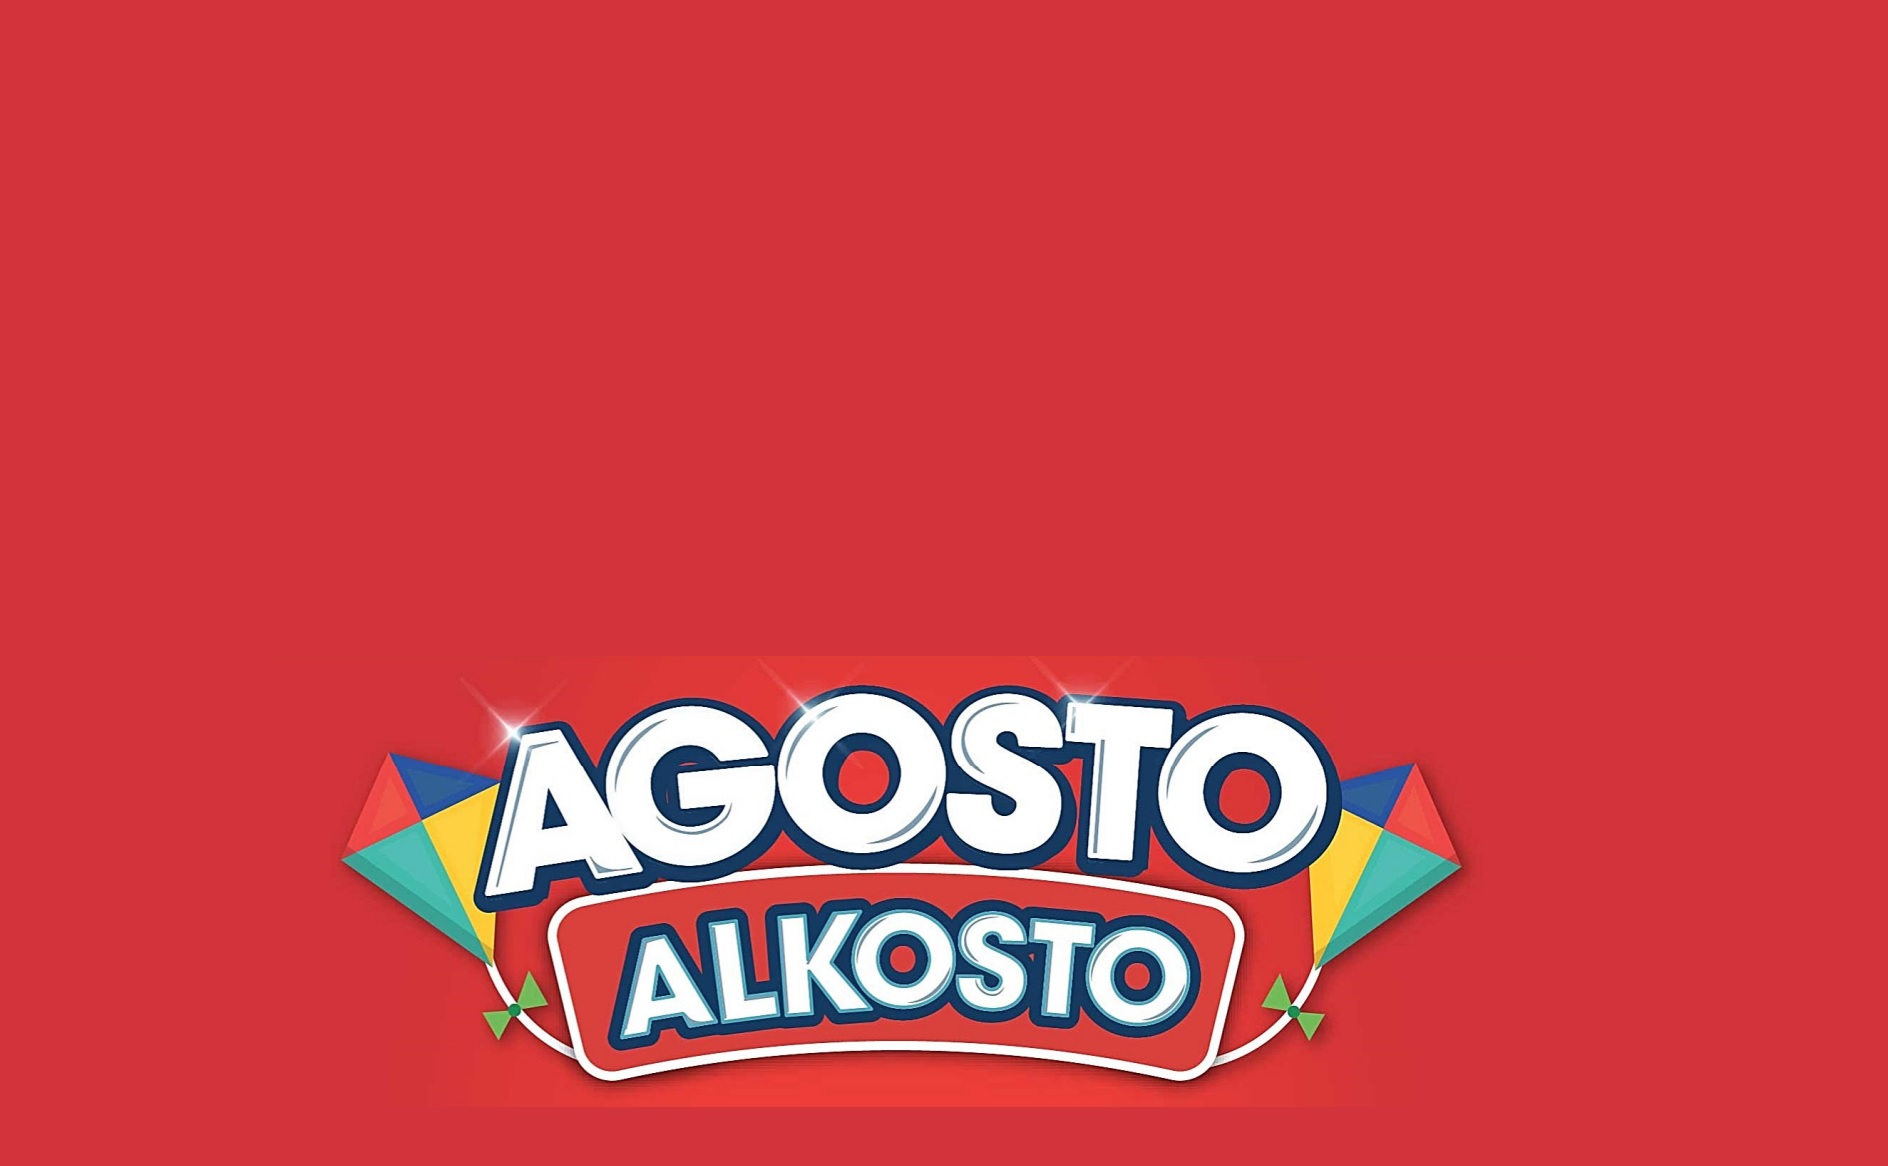
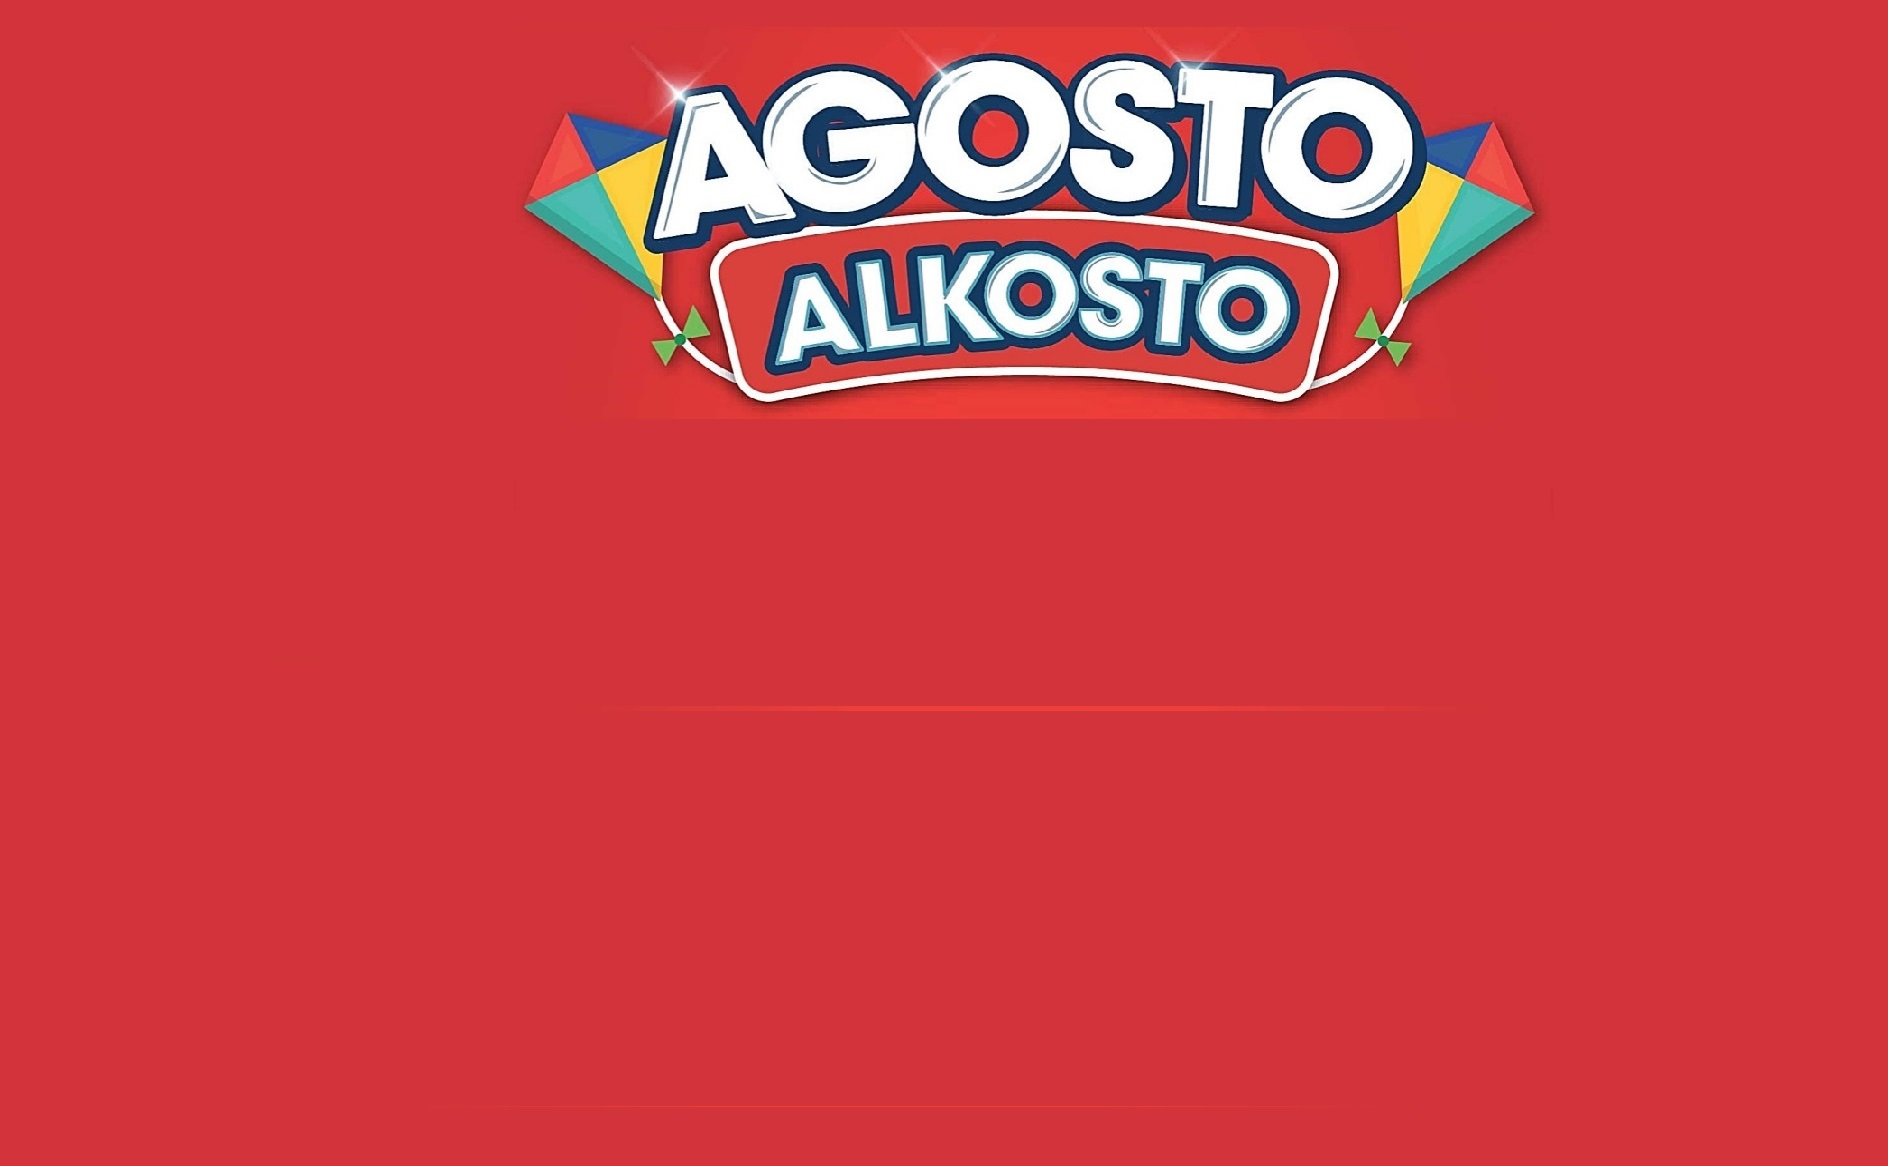
Afternoon

Changed region(s): [[0.1875, 0.5866, 0.7812, 0.9571], [0.2812, 0.0309, 0.8125, 0.3705]]

diff --git a/templates/home/index.html b/templates/home/index.html
@@ -56,9 +56,8 @@
   <!-- ======= Hero Section ======= -->
   <section id="hero">
     <div class="hero-container" data-aos="zoom-in" data-aos-delay="100">
-      <h1 class="mb-4 pb-0">Agosto<br><span>Alkosto</span></h1>
+      <h1 class="mb-4 pb-0">ALKOFERTAS<br><span>Alkosto</span></h1>
       <p class="mb-4 pb-0">Vigencia 4 de marzo</p>
-      <a href="https://www.youtube.com/watch?v=jDDaplaOz7Q" class="glightbox play-btn mb-4"></a>
       <a href="#about" class="about-btn scrollto">te obsequiamos una tula</a>
     </div>
   </section><!-- End Hero Section -->
@@ -312,14 +311,13 @@
     <section id="subscribe">
       <div class="container" data-aos="zoom-in">
         <div class="section-header">
-          <h2>Newsletter</h2>
-          <p>Rerum numquam illum recusandae quia mollitia consequatur.</p>
+          <h2>Buscar un producto</h2>
         </div>
 
         <form method="POST" action="#">
           <div class="row justify-content-center">
             <div class="col-lg-6 col-md-10 d-flex">
-              <input type="text" class="form-control" placeholder="Enter your Email">
+              <input type="text" class="form-control" placeholder="Ingrese el nombre del producto">
               <button type="submit" class="ms-2">Subscribe</button>
             </div>
           </div>
